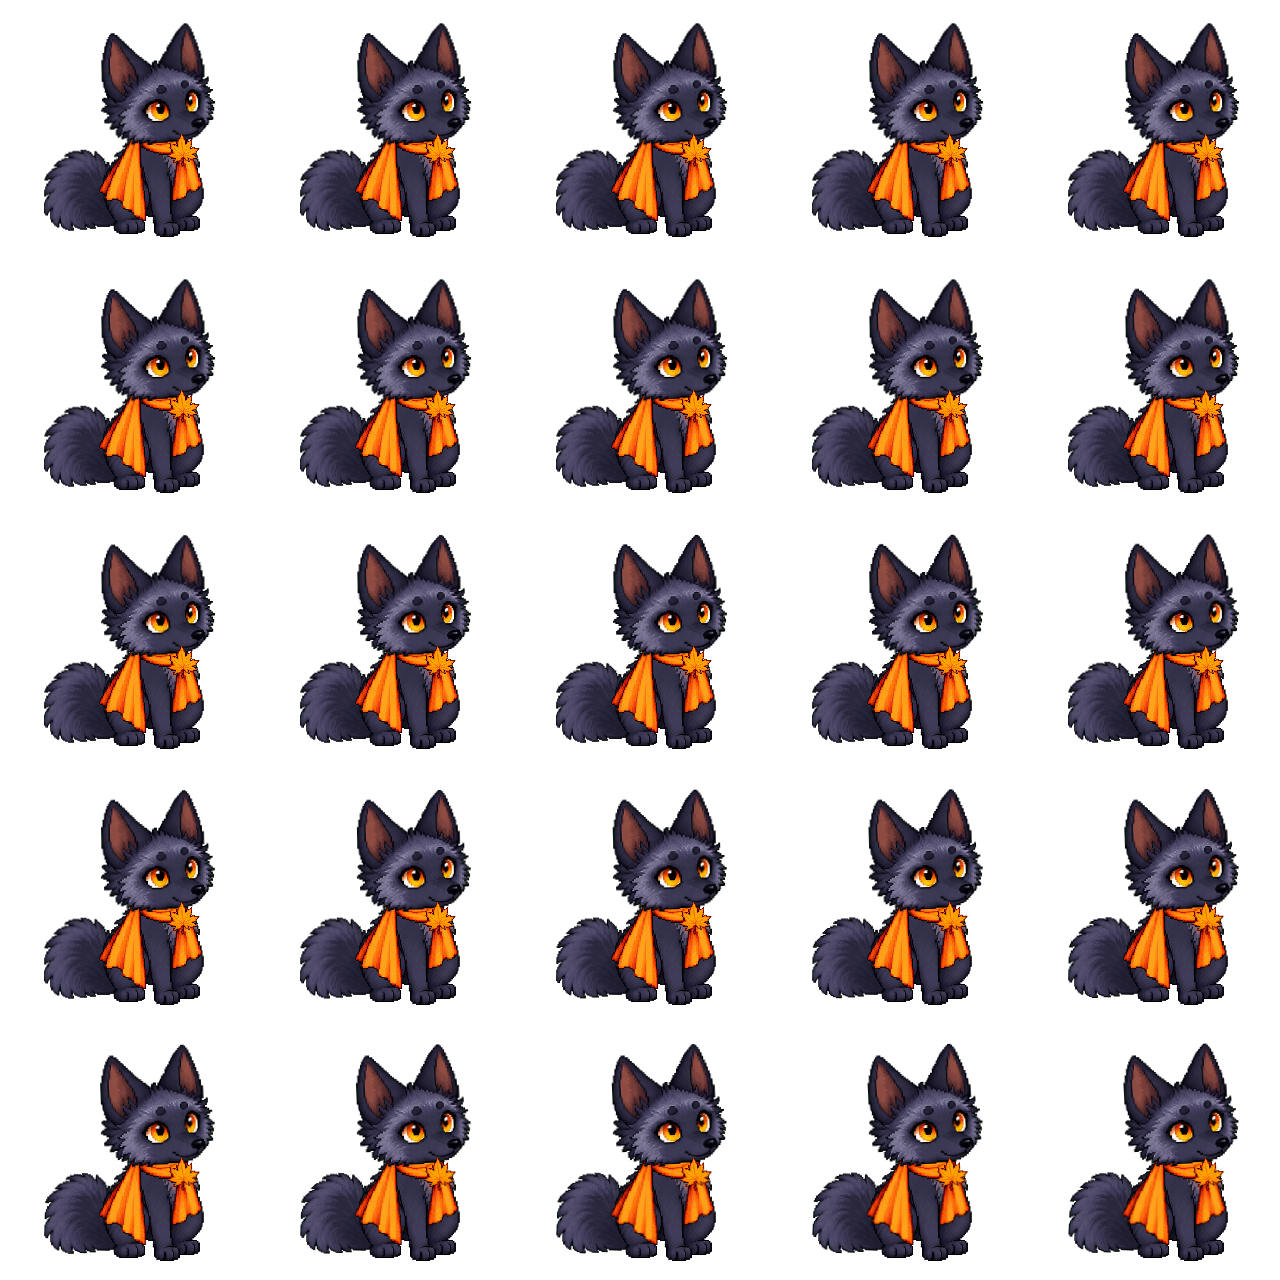
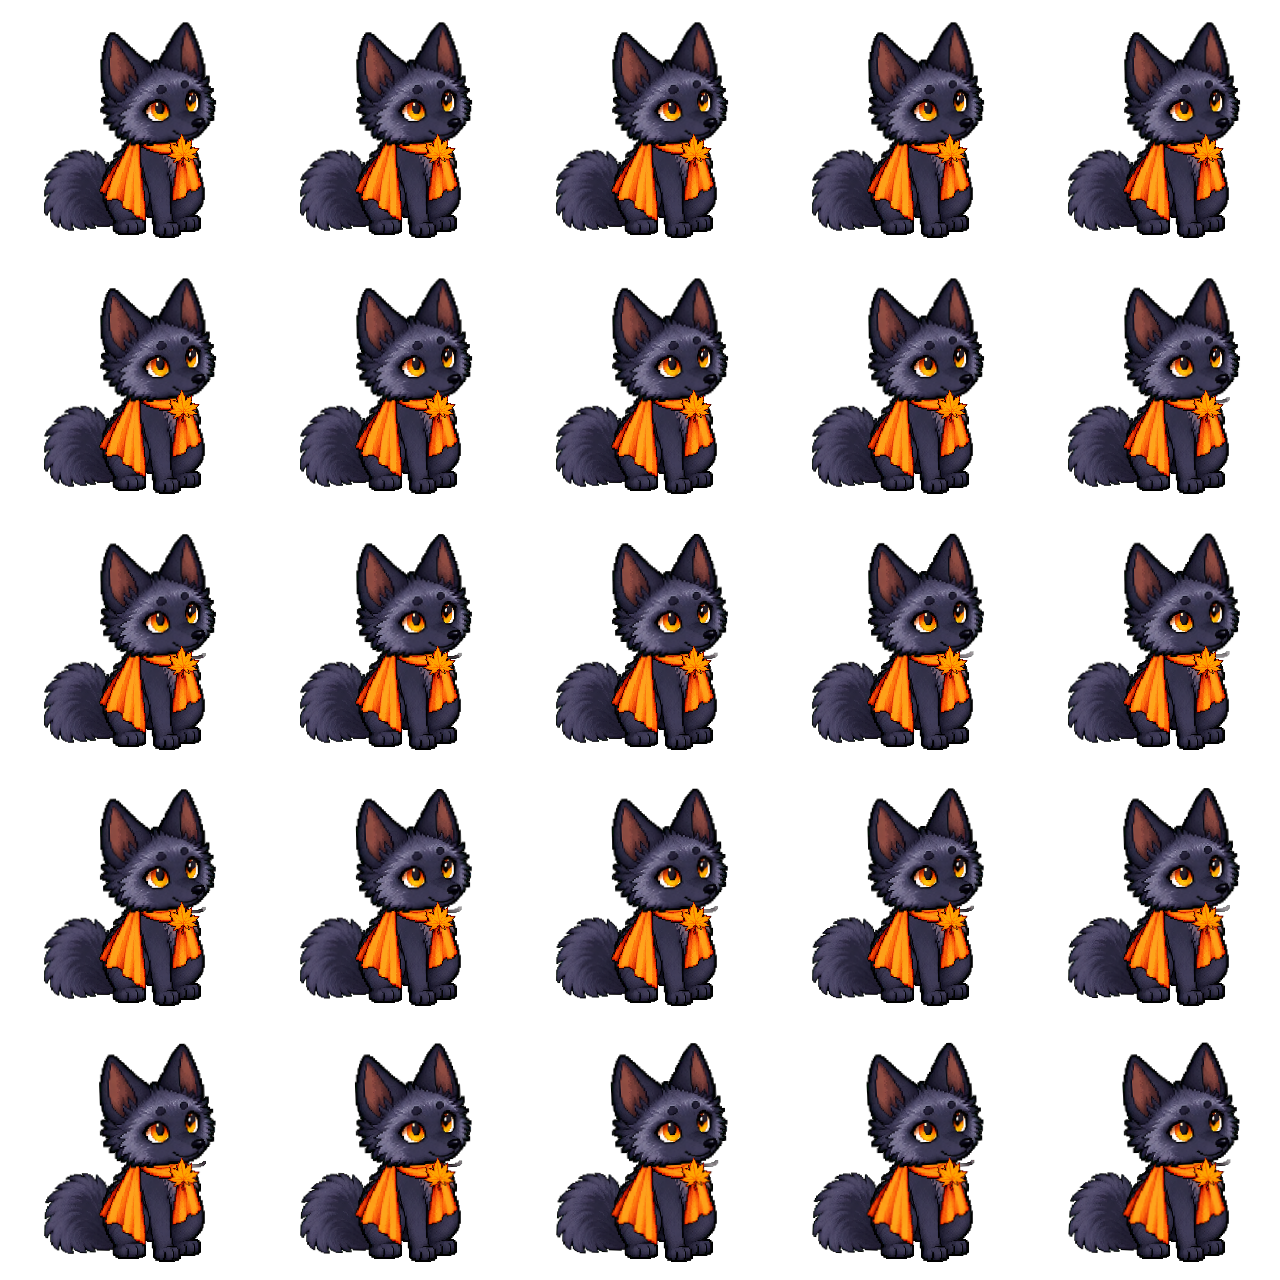
fix: add organic fox facial motion

diff --git a/tools/fox-layer-preview-template.html b/tools/fox-layer-preview-template.html
@@ -15,9 +15,9 @@ button{cursor:pointer}button:disabled{opacity:.5}input{width:100%;accent-color:#
 .note{font-size:14px;border-top:1px solid #363e4b;padding-top:18px}
 </style>
 <main>
-<span class="tag">SHADOWFOX · ПРОБА ДВИЖЕНИЯ V1.1</span>
+<span class="tag">SHADOWFOX · ПРОБА ДВИЖЕНИЯ V1.2</span>
 <h1>Лисёнок из отдельных слоёв</h1>
-<p>Голова, уши, хвост и шарф движутся независимо. Это проверка сборки и темпа — мимика и скрытые участки шерсти ещё требуют дорисовки.</p>
+<p>Лисёнок замечает пользователя взглядом, моргает, поднимает мордочку и улыбается. Голова и тело остаются цельными, а уши, хвост и шарф отвечают с задержкой.</p>
 <div class="stage"><canvas width="256" height="256" aria-label="Анимированный лисёнок"></canvas></div>
 <div class="controls">
 <button id="play" disabled>Загрузка…</button><button id="restart" disabled>Сначала</button>
@@ -26,7 +26,7 @@ button{cursor:pointer}button:disabled{opacity:.5}input{width:100%;accent-color:#
 <input id="scrub" type="range" min="0" max="99" value="0" aria-label="Кадр" disabled>
 <output id="status">Подготовка кадров…</output>
 <p class="note">100 кадров · 5 секунд · 256×256. Первый и последний кадры совпадают. Переключение вкладки останавливает просмотр. Эта страница автономна, ничего не отправляет в сеть и не меняет прогресс приложения.</p>
-<p class="note">Версия 1.1: голова и тело деформируются непрерывно, лапы закреплены на полу. Глаза и морда пока следуют голове без самостоятельной мимики. Плавность на телефоне ещё не проверена.</p>
+<p class="note">Версия 1.2: непрерывные поверхности без раскрывающихся стыков; лапы закреплены; добавлены зрачки, блики, моргание и мягкая улыбка. Плавность на телефоне ещё не измерена.</p>
 </main>
 <script>
 const urls=__ATLAS_DATA__;

diff --git a/tools/build-fox-layer-prototype.py b/tools/build-fox-layer-prototype.py
@@ -17,7 +17,7 @@ import xml.etree.ElementTree as ET
 import zipfile
 from io import BytesIO
 
-from PIL import Image, ImageChops, ImageDraw
+from PIL import Image, ImageChops, ImageDraw, ImageFilter
 
 ROOT = Path(__file__).resolve().parent.parent
 SOURCE_DIR = ROOT / "tools/companion-source"
@@ -85,7 +85,8 @@ def prepare_parts():
     atlas = Image.new("RGBA", (2048, 2048))
     review = Image.new("RGBA", (1024, 1024), "#1c202a")
     for i, (name, b) in enumerate(zip(NAMES, bounds)):
-        # Keep 2 pixels of the soft contour around the opaque component.
+        # Keep a small contour margin; the actual overlap is introduced only
+        # at anatomical joints below, never by moving complete objects.
         b = (max(0, b[0]-2), max(0, b[1]-2), min(sheet.width, b[2]+2), min(sheet.height, b[3]+2))
         part = sheet.crop(b)
         parts[name] = part
@@ -222,6 +223,42 @@ def mesh_warp(surface, inverse):
     return surface.transform((SIZE,SIZE),Image.Transform.MESH,mesh,Image.Resampling.BILINEAR)
 
 
+def close_surface(surface, radius=1):
+    """Close one-pixel resampling cracks inside the already joined surface."""
+    closed=surface.copy()
+    closed.putalpha(surface.getchannel("A").filter(ImageFilter.MaxFilter(radius*2+1)))
+    return closed
+
+
+def facial_surface(head, pose):
+    """Paint small expression changes on the intact head before it is warped."""
+    face=head.copy()
+    draw=ImageDraw.Draw(face,"RGBA")
+    focus=pose["eyeX"]
+    # Fresh pupils sit inside the existing amber irises. Their early movement
+    # makes the fox notice the user before the skull starts to turn.
+    draw.ellipse((155+focus,102+pose["eyeY"]*.25,161+focus,113+pose["eyeY"]*.25),fill=(30,25,34,245))
+    draw.ellipse((191+focus*.55,94+pose["eyeY"]*.18,195+focus*.55,103+pose["eyeY"]*.18),fill=(30,25,34,245))
+    # Two highlights keep the gaze readable at the final 128 CSS px size.
+    draw.rectangle((156+focus,103+pose["eyeY"]*.25,157+focus,105+pose["eyeY"]*.25),fill=(255,239,190,245))
+    draw.point((192+focus*.55,95+pose["eyeY"]*.18),fill=(255,239,190,245))
+    blink=pose["eyelid"]
+    if blink>0:
+        # Eyelids are fur-coloured overlays on a complete head, so no socket is
+        # ever exposed even on the fully closed frame.
+        near_bottom=round(99+18*blink)
+        far_bottom=round(92+14*blink)
+        draw.polygon([(143,96),(174,93),(177,near_bottom),(145,near_bottom+2)],fill=(91,94,123,255))
+        draw.line([(145,near_bottom+1),(175,near_bottom-1)],fill=(32,30,42,255),width=2)
+        draw.polygon([(183,89),(203,86),(204,far_bottom),(184,far_bottom+1)],fill=(79,82,109,255))
+        draw.line([(184,far_bottom),(203,far_bottom-1)],fill=(32,30,42,255),width=1)
+    smile=pose["smile"]
+    if smile>.08:
+        y=round(139-smile*2)
+        draw.arc((184,y-2,204,y+7),start=10,end=150,fill=(42,30,38,230),width=1)
+    return face
+
+
 def body_inverse(p):
     amplitude=(p["chestScaleY"]-1)*.7
     def inverse(x,y):
@@ -282,7 +319,7 @@ def render(layers,pivots):
             if name=="tail":
                 image=transform(image,pivots[name],angle=p["tailLift"]*.65)
             elif name=="body":
-                image=mesh_warp(body_surface,body_inverse(p))
+                image=close_surface(mesh_warp(body_surface,body_inverse(p)))
             elif name in ("chest","front-legs","ear-left","ear-right","eye-near","eye-far","muzzle"):
                 continue
             elif name=="scarf":
@@ -290,7 +327,7 @@ def render(layers,pivots):
             elif name=="leaf":
                 image=transform(image,pivots[name],angle=p["leafAngle"]*.7)
             elif name=="head":
-                image=mesh_warp(head_surface,head_inverse(p,pivots))
+                image=close_surface(mesh_warp(facial_surface(head_surface,p),head_inverse(p,pivots)))
             out.alpha_composite(image)
         box=out.getbbox()
         assert box and min(box[:2])>=16 and max(box[2:])<=240, (frame["frame"],box)
@@ -335,6 +372,7 @@ def render(layers,pivots):
     dump(OUT/"validation.json",{"frames":100,"distinctFrames":unique,"safeMargin":16,
         "loopPixelsMatch":True,"layerCount":len(layers),"sourcePartitionsReconstruct":True,
         "decodedApngMatchesFrames":True,"decodedAtlasMatchesFrames":True,"decodedDurationMs":total_ms,
+        "continuousHeadSurface":True,"continuousBodySurface":True,"facialAnimation":True,
         "atlasBytes":sum((OUT/p).stat().st_size for p in pages),"deviceTested":False,
         "notValidated":["anatomical realism","final expression animation","runtime performance","wardrobe deformation"]})
     print(f"{len(layers)} layers; {len(frames)} frames ({unique} distinct); safe border and loop OK")

diff --git a/tools/test-fox-surfaces.py b/tools/test-fox-surfaces.py
@@ -41,6 +41,15 @@ class SurfaceTests(unittest.TestCase):
                 holes=ImageChops.multiply(region,actual.point(lambda p:255 if p<250 else 0))
                 self.assertIsNone(holes.getbbox(),f["frame"])
 
+    def test_expression_changes_without_changing_canvas(self):
+        neutral=fox.facial_surface(self.head,self.poses[0]["pose"])
+        blink=fox.facial_surface(self.head,self.poses[20]["pose"])
+        happy=fox.facial_surface(self.head,self.poses[60]["pose"])
+        self.assertNotEqual(neutral.tobytes(),blink.tobytes())
+        self.assertNotEqual(neutral.tobytes(),happy.tobytes())
+        self.assertEqual(neutral.size,blink.size)
+        self.assertEqual(neutral.size,happy.size)
+
 
 if __name__=="__main__":
     unittest.main()

diff --git a/docs/FOX_LAYER_PROTOTYPE.md b/docs/FOX_LAYER_PROTOTYPE.md
@@ -61,7 +61,9 @@ Avoid: full duplicate foxes, cropped objects, merged parts, lighting changes, gr
 
 ## Ограничения и следующий проход
 
-Движение запечено из преобразований отдельных частей, а не дорисовано в 100 новых позах. Раздельные глаза и морда пока следуют черепу; моргание, движение зрачков и радостная мимика ещё не реализованы. В области груди и основания ушей возможны заметные швы: скрытую шерсть надо дорисовать.
+Версия V1.2 соединяет голову и тело в непрерывные поверхности до деформации. Грудь плавно переходит в неподвижные лапы, а поворот ушей затухает к их основанию. Добавлены движение зрачков, стабильные блики, моргание и мягкая улыбка. Эти изменения рисуются на цельной голове до деформации, поэтому глазницы и стыки лица не раскрываются.
+
+Движение всё ещё запечено из преобразований частей, а не дорисовано в 100 новых анатомических позах. Большие повороты головы потребуют сменных нарисованных форм, а скрытую шерсть под шарфом следует дорисовать перед выпуском.
 
 Пропорции нового сборного персонажа отличаются от утверждённого эталона. Перед подключением в APK нужно согласовать их по силуэту, дорисовать закрытые области, подготовить варианты век и морды, обеспечить плавные переходы между ними. Поворот головы нельзя заменить простым вращением плоской детали.
 
